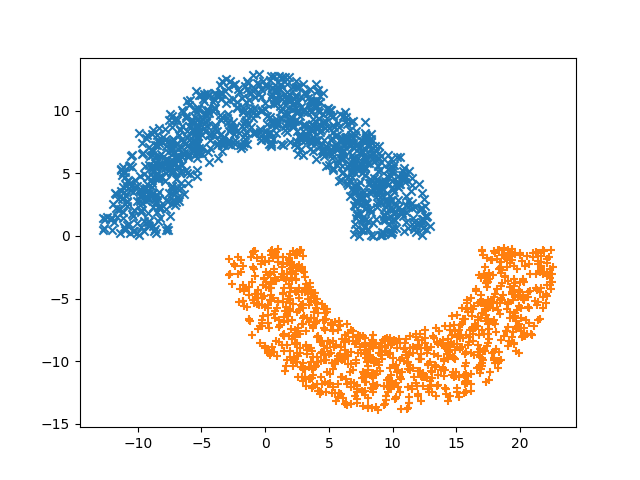
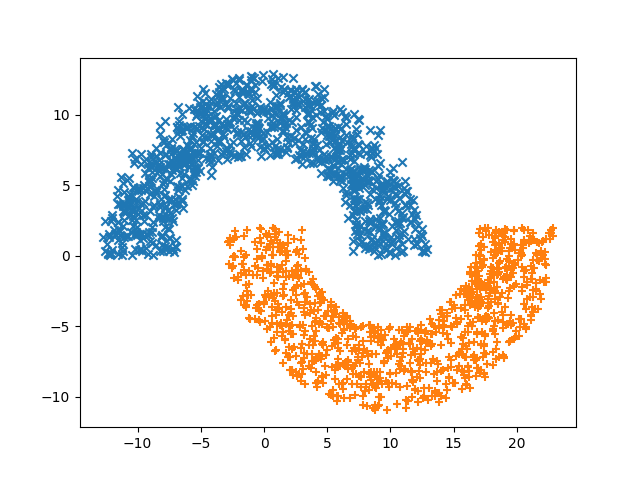
update hw4

diff --git a/homework/第4次作业/code/drawBP.py b/homework/第4次作业/code/drawBP.py
@@ -1,0 +1,64 @@
+import sys, os
+import numpy as np
+import matplotlib.pyplot as plt
+from mpl_toolkits.mplot3d import Axes3D
+import math
+from neuralnet import *
+from dbmoon import *
+
+if __name__ == "__main__":
+
+    dataset = DBMOON(1000, 10, 6, -2)
+    dataA, dataB = dataset.gen_dbdata()
+    data = np.hstack([dataA, dataB])
+    # print(data.shape)
+    x_train = data[:2, :]
+    y_label = data[2, :]
+    # print(train_data)
+
+    # 定义网络结构
+    network = ThreeLayerNet(input_size=2, hidden_size1=10, hidden_size2=5, output_size=1)
+
+    # 设置超参数
+    iters_num = 50
+    train_size = x_train.shape[1]
+    batch_size = 100
+    learning_rate = 0.01
+    train_loss_list = []
+    iter_per_epoch = max(train_size / batch_size, 1)
+
+    # 模型训练
+    for i in range(iters_num):
+        batch_mask = np.random.choice(train_size, batch_size)
+        x_batch = x_train[:, batch_mask]
+        y_batch = y_label[batch_mask]
+
+        grad = network.gradient(x_batch, y_batch)
+
+        for key in (network.params.keys()):
+            network.params[key] -= learning_rate*grad[key]
+
+        if i % iter_per_epoch == 0:
+            loss = network.loss(x_train, y_label)
+            # print(loss)
+            mean_loss = np.sum(loss, axis=1) / loss.shape[1]
+            print("No.{} epoches' loss:{}".format((int)(i/iter_per_epoch)+1, mean_loss))
+            train_loss_list.append(mean_loss)
+   
+    # 绘制损失函数图像
+    fig2 = plt.figure()
+    plt.plot(train_loss_list)
+    plt.title("Training Loss")
+    plt.show()
+    plt.savefig('tanh_5')
+    
+    '''
+    # 绘制拟合后预测结果
+    fig3 = plt.figure()
+    ax2 = plt.axes(projection='3d')
+    output2 = network.predict(input)
+    OUT2 = output2.reshape((100, 100))
+
+    ax2.plot_surface(X,Y,OUT2)
+    plt.savefig('3d2')
+    '''

diff --git a/homework/第4次作业/code/layers.py b/homework/第4次作业/code/layers.py
@@ -1,0 +1,81 @@
+import numpy as np
+from functions import *
+
+class Relu:
+    def __init__(self):
+        self.mask = None
+    
+    def forward(self, x):
+        self.mask = (x<=0)
+        out = x.copy()
+        out[self.mask] = 0
+        return out
+    
+    def backward(self, dout):
+        dout[self.mask] = 0
+        dx = dout
+        return dx
+
+class Tanh:
+    def __init__(self):
+        self.out = None
+    
+    def forward(self, x):
+        out = tanh(x)
+        self.out = out
+        return out
+
+    def backward(self, dout):
+        dx = dout*(1-self.out**2)
+        return dx
+        
+class Sigmoid:
+    def __init__(self):
+        self.out = None
+    
+    def forward(self, x):
+        out = sigmoid(x)
+        self.out = out
+        return out
+
+    def backward(self, dout):
+        dx = dout*(1.0-self.out)*self.out
+        return dx
+
+class FC:
+    def __init__(self, W, B):
+        self.W = W
+        self.B = B
+
+        self.x = None
+        self.dW = None
+        self.dB = None
+
+    def forward(self, x):
+        self.x = x
+        out = self.W.T.dot(self.x)+self.B
+        return out
+
+    def backward(self, dout):
+        dx = self.W.dot(dout)
+        self.dW = self.x.dot(dout.T)
+        self.dB = np.sum(dout, axis=1, keepdims=True)
+        return dx
+
+class Output:
+    def __init__(self):
+        self.y = None
+        self.t = None
+    
+    def forward(self, y, t):
+        self.y = y
+        self.t = t
+        loss = (self.y-self.t)**2
+        return loss
+    
+    def backward(self, dout):
+        dy = dout*2*(self.y - self.t)
+        return dy
+    
+if __name__ == "__main__":
+    pass

diff --git a/homework/第4次作业/code/slp.py b/homework/第4次作业/code/slp.py
@@ -4,26 +4,41 @@ class SLP:
     def __init__(self, input_size, learning_rate):
         self.size = input_size
         self.lr = learning_rate
-        self.w = np.random.randn((self.size, 1))
+        self.w = np.random.randn((self.size)).reshape((self.size, 1))
         self.x = None
         self.out = None
         self.dw = None
     
     def forward(self, x):
-        out = x.dot(self.w)
+        out = np.sign(self.w.T.dot(x))
         self.x = x
         self.out = out
         return out
     
     def backward(self, t):
-        self.dw = 
+        self.dw = self.lr*((t-self.out)*self.x)
+        # print(self.x.shape)
+        # print(self.dw.shape)
+        dw = self.dw.copy().reshape((self.size, 1))
+        return dw
+
+    def train(self, x, t, iters):
+        for i in range(iters):
+            for j in range(x.shape[1]):
+                y = self.forward(x[:, j])
+                dw = self.backward(t[j].reshape((1,)))
+                # print('w:{}'.format(self.w))
+                # print('dw:{}'.format(dw))
+                self.w += dw
+        result = self.forward(x)
+        return result
 
 
 
 if __name__ == "__main__":
-    a = np.random.randn((2))
+    a = np.random.randn((1))
     b = np.ones((2,1))
-    c = a.dot(b)
-    print(a)
-    print(b)
+    c = a*b
+    d = np.ones((1,2))
+    print(d[0,1])
     print(c)

diff --git a/homework/第4次作业/code/drawSLP.py b/homework/第4次作业/code/drawSLP.py
@@ -1,0 +1,35 @@
+import sys, os
+sys.path.append(os.pardir)
+from dbmoon import *
+from slp import *
+
+if __name__ == "__main__":
+    dataset = DBMOON(1000, 10, 6, -2)
+    dataA, dataB = dataset.gen_dbdata()
+    data = np.hstack([dataA, dataB])
+    # print(data.shape)
+    train_data = data[:2, :]
+    train_label = data[2, :]
+    # print(train_data)
+
+    slp = SLP(input_size=2, learning_rate=0.1)
+    predict_result = slp.train(train_data, train_label, 20)
+    # print(predict_result)
+
+    res_old = 0
+    test_x = []
+    test_y = []
+    for x in np.arange(-15, 25, 0.1):
+        for y in np.arange(-15, 15, 0.1):
+            r = slp.forward(np.array([[x],[y]]))
+            if(res_old<=0 and r>=0):
+                test_x.append(x)
+                test_y.append(y)
+            res_old = r
+
+    fig1 = plt.figure()
+    plt.plot(test_x, test_y, 'g--')
+    plt.scatter(dataA[0, :], dataA[1, :], marker='x')
+    plt.scatter(dataB[0, :], dataB[1, :], marker='+')
+    plt.savefig('slp')
+    

diff --git a/homework/第4次作业/code/functions.py b/homework/第4次作业/code/functions.py
@@ -1,0 +1,23 @@
+import numpy as np
+
+def sigmoid(x):
+    return 1 / (1+np.exp(-x))
+
+def tanh(x):
+    return (np.exp(x)-np.exp(-x)) / (np.exp(x)+np.exp(-x))
+
+def sigmoid_grad(x):
+    return (1.0-sigmoid(x))*sigmoid(x)
+
+def relu(x):
+    return np.maximum(0, x)
+
+def relu_grad(x):
+    grad = np.zeros(x.shape)
+    grad[x>=0] = 1
+    return grad
+
+
+
+if __name__ == "__main__":
+    pass

diff --git a/homework/第4次作业/code/neuralnet.py b/homework/第4次作业/code/neuralnet.py
@@ -25,7 +25,7 @@ class ThreeLayerNet:
         self.layers['relu2'] = Relu()
         self.layers['fc3'] = FC(self.params['W3'], self.params['B3'])
 
-        self.lastlayer = Output()
+        self.lastlayer = Loss()
 
     def predict(self, x):
         for layer in self.layers.values():

diff --git a/homework/第4次作业/code/dbmoon.py b/homework/第4次作业/code/dbmoon.py
@@ -34,7 +34,7 @@ class DBMOON:
         plt.savefig("dbdata")
 
 if __name__ == "__main__":
-    dataset = DBMOON(1000, 10, 6, 1)
+    dataset = DBMOON(1000, 10, 6, -2)
     dataA, dataB = dataset.gen_dbdata()
     print(dataB)
     dataset.plot()
